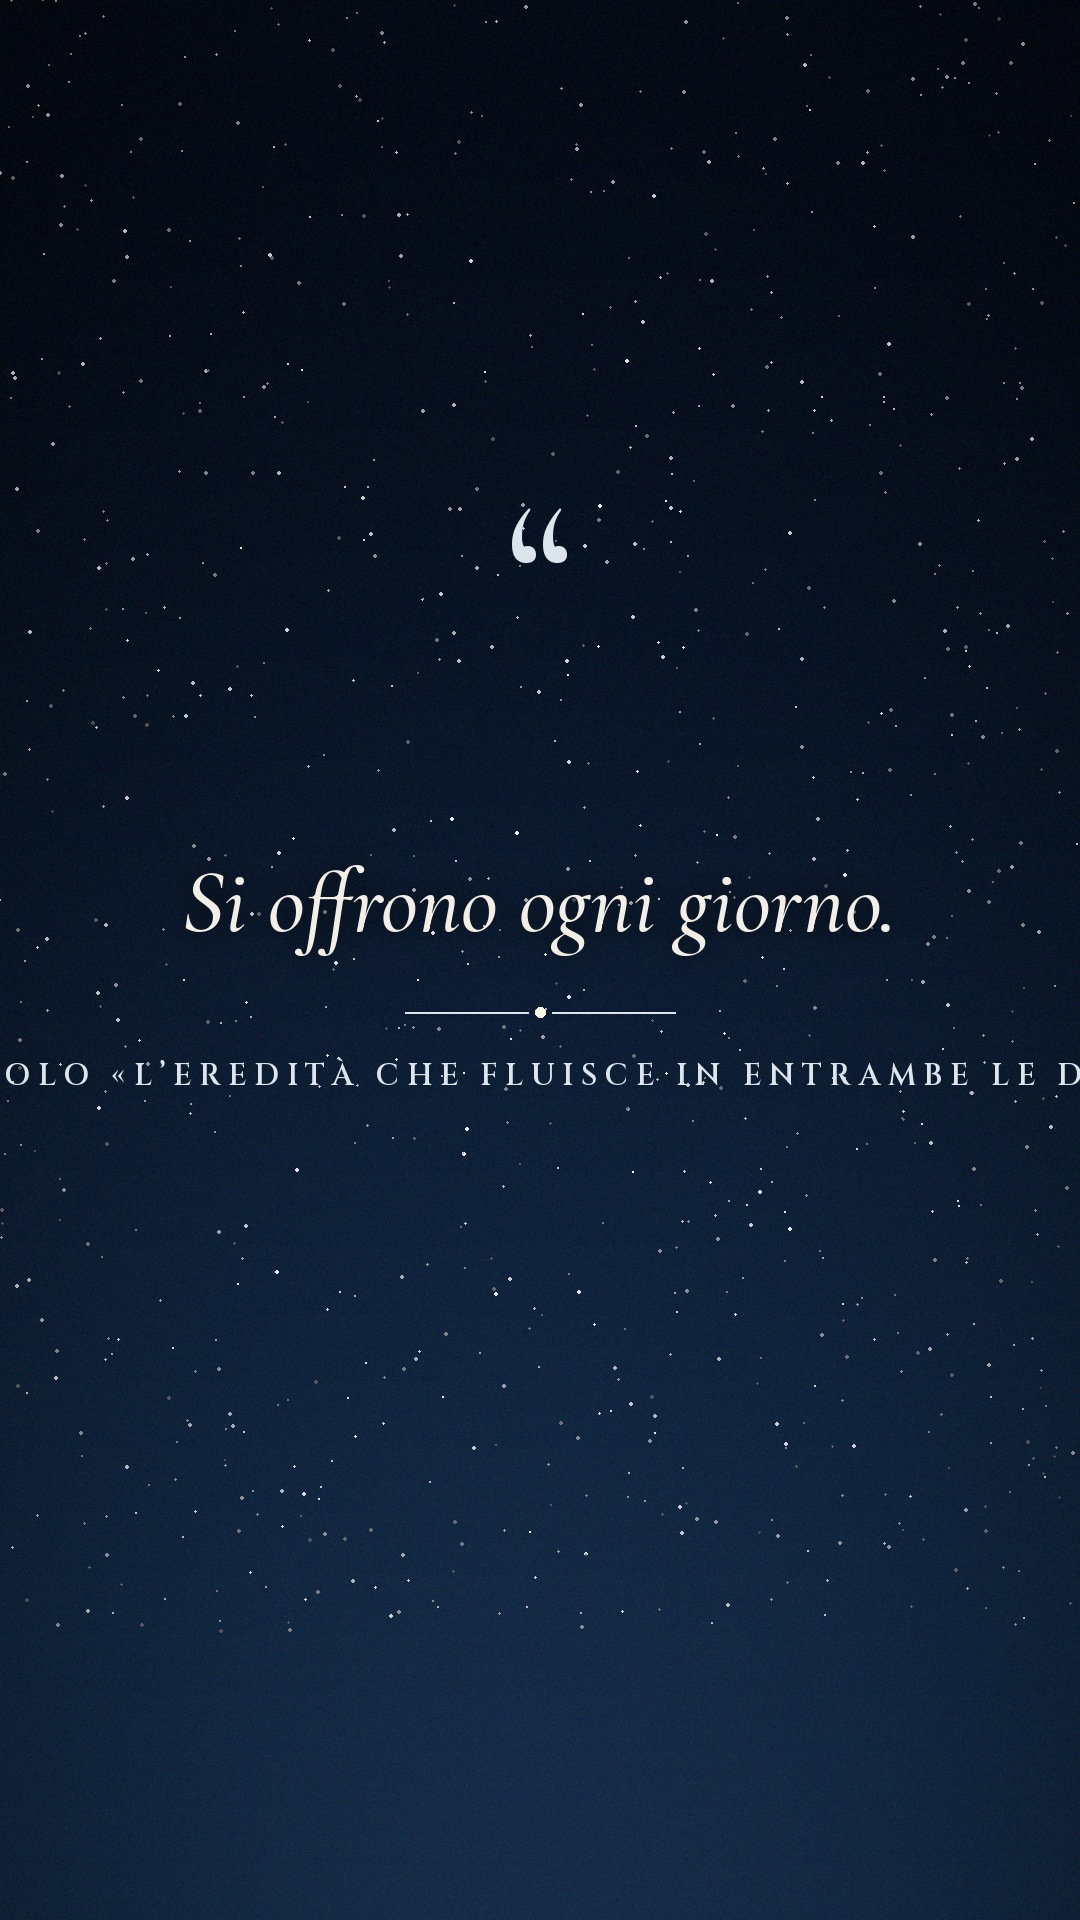
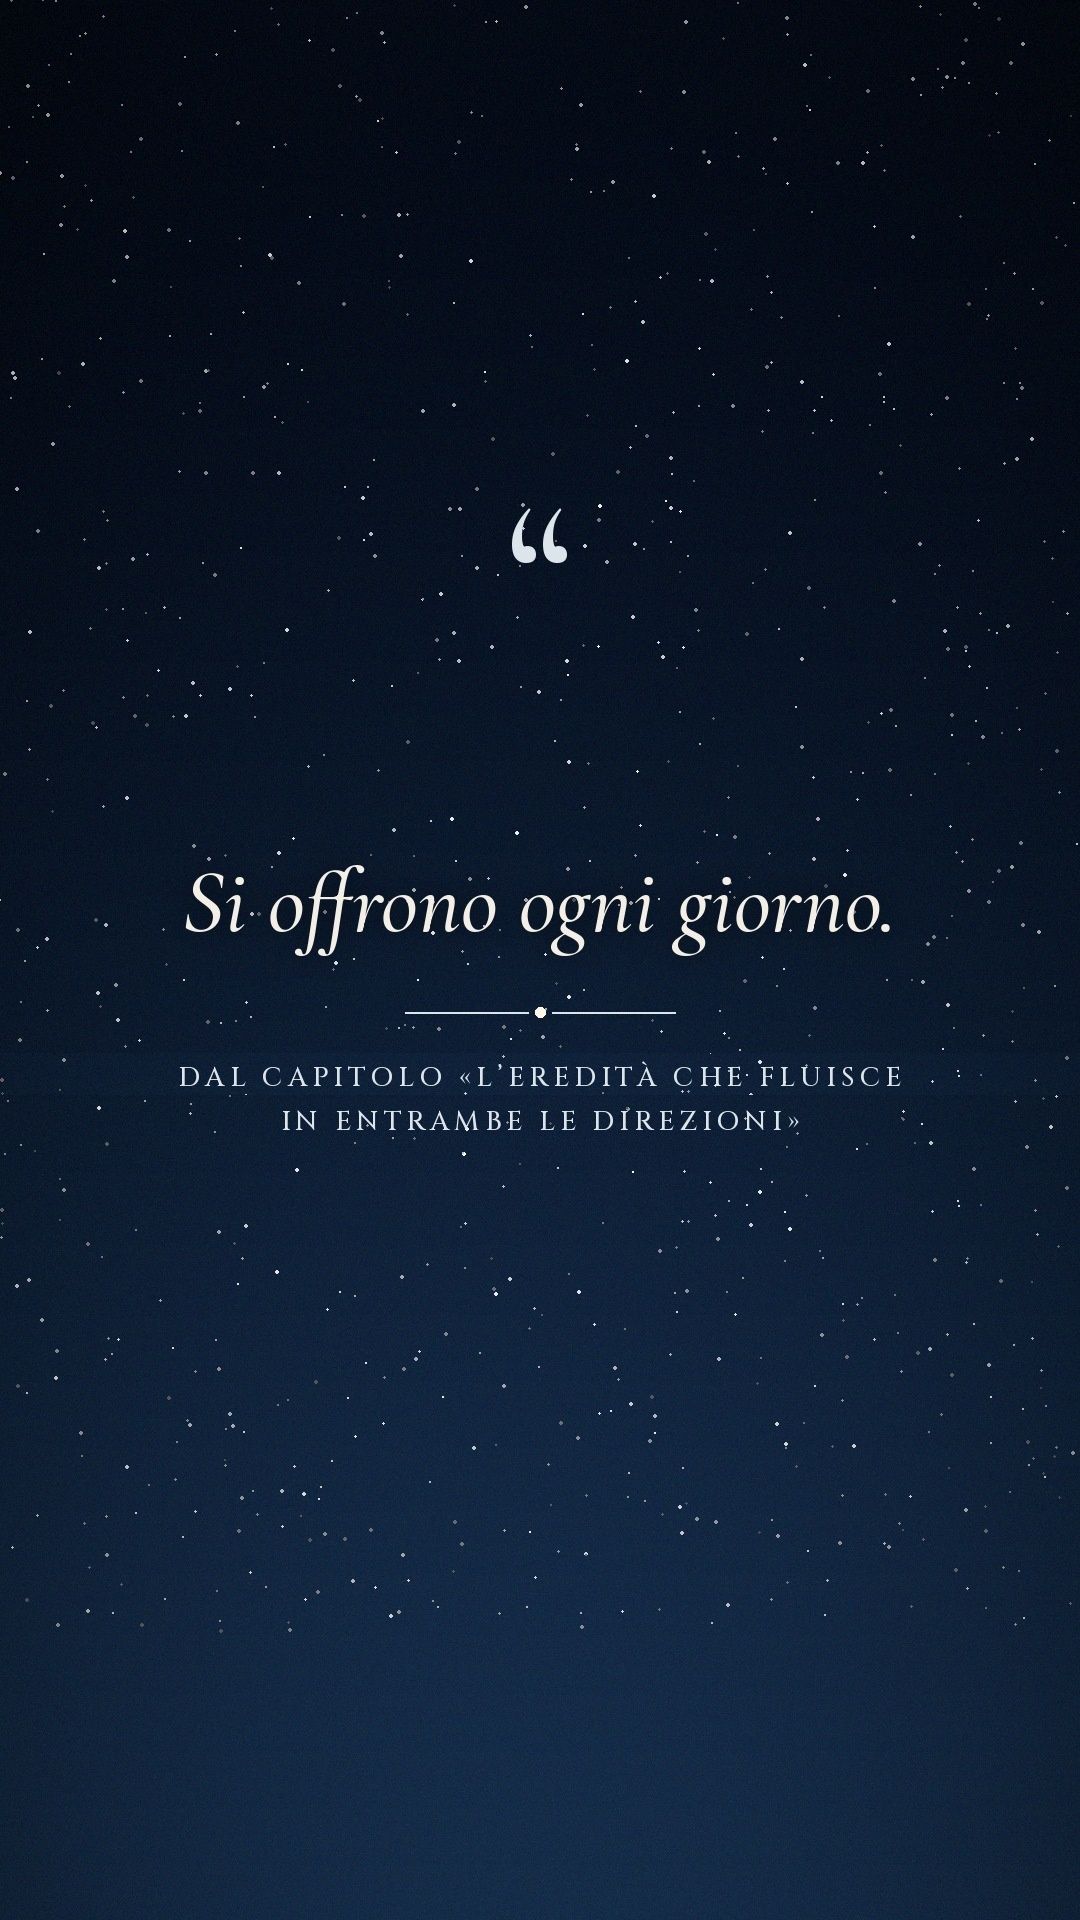
Eredità Invisibili: sottotitoli lunghi divisi in più frasi, riga del capitolo ridisegnata in R09 e R10, cartelle di montaggio fuori da git
Claude-Session: https://claude.ai/code/session_011VcYB1UyftPwdXssPuiLTX

diff --git a/progetti/strumenti/eredita/monta.py b/progetti/strumenti/eredita/monta.py
@@ -116,7 +116,16 @@ def frasi(parole, maxr):
             out.append(cur); cur = []
     if cur:
         out.append(cur)
-    return out
+    lun = lambda c: len(' '.join(x['w'] for x in c))
+    fine = []
+    for c in out:
+        n = -(-lun(c) // (2 * maxr - 4))
+        while n > 1:
+            # taglia la frase troppo lunga per due righe al confine di parola più vicino a 1/n
+            k = min(range(1, len(c)), key=lambda k: abs(lun(c[:k]) - lun(c) / n))
+            fine.append(c[:k]); c = c[k:]; n -= 1
+        fine.append(c)
+    return fine
 
 
 def tc(t):
